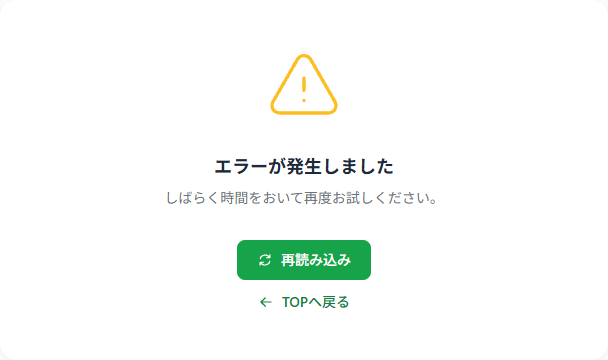
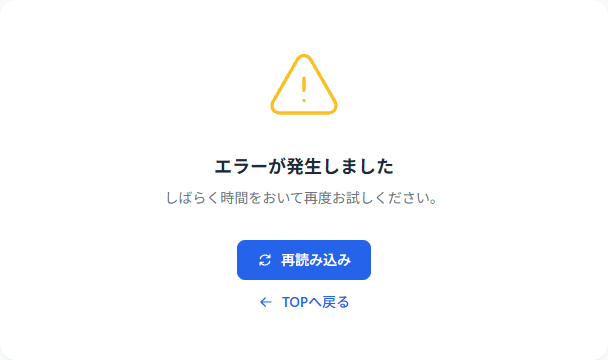
エラー画面のキャプチャが正しく読まれないバグを修正

Changed region(s): [[0.375, 0.6417, 0.625, 0.7944], [0.4062, 0.825, 0.5938, 0.8556]]

diff --git a/docs/trinity/001.設計/画面仕様書/エラーページ/error.html b/docs/trinity/001.設計/画面仕様書/エラーページ/error.html
@@ -1,0 +1,122 @@
+<!DOCTYPE html>
+<html lang="ja">
+<head>
+  <meta charset="UTF-8">
+  <meta name="viewport" content="width=device-width, initial-scale=1.0">
+  <title>エラー表示 プレビュー（Heroicons版）</title>
+  <script src="https://cdn.tailwindcss.com"></script>
+  <style>
+    body { font-family: 'Segoe UI', 'Hiragino Sans', sans-serif; background: #f9fafb; }
+    .dropdown-menu { display: none; }
+    .dropdown:hover .dropdown-menu { display: block; }
+  </style>
+</head>
+<body class="min-h-screen flex flex-col">
+
+<!-- ヘッダー -->
+<header class="bg-white shadow-sm sticky top-0 z-50">
+  <div class="max-w-7xl mx-auto px-4 py-3 flex items-center justify-between gap-4">
+    <a href="../トップページ/top.html" class="shrink-0"><img src="../header_logo.png" alt="SUNABA" class="h-8"></a>
+    <div class="flex-1 max-w-xl">
+      <div class="relative">
+        <input type="text" placeholder="商品を検索..." class="w-full border border-gray-300 rounded-lg px-4 py-2 text-sm focus:outline-none focus:ring-2 focus:ring-blue-500">
+        <span class="absolute right-3 top-2.5 text-gray-400">
+          <svg xmlns="http://www.w3.org/2000/svg" fill="none" viewBox="0 0 24 24" stroke-width="1.5" stroke="currentColor" class="w-5 h-5">
+            <path stroke-linecap="round" stroke-linejoin="round" d="m21 21-5.197-5.197m0 0A7.5 7.5 0 1 0 5.196 5.196a7.5 7.5 0 0 0 10.607 10.607Z" />
+          </svg>
+        </span>
+      </div>
+    </div>
+    <div class="flex items-center gap-4 shrink-0">
+      <a href="../カートページ/cart.html" class="relative text-gray-600 hover:text-blue-600">
+        <svg xmlns="http://www.w3.org/2000/svg" fill="none" viewBox="0 0 24 24" stroke-width="1.5" stroke="currentColor" class="w-6 h-6">
+          <path stroke-linecap="round" stroke-linejoin="round" d="M2.25 3h1.386c.51 0 .955.343 1.087.835l.383 1.437M7.5 14.25a3 3 0 0 0-3 3h15.75m-12.75-3h11.218c1.121-2.3 2.1-4.684 2.924-7.138a60.114 60.114 0 0 0-16.536-1.84M7.5 14.25 5.106 5.272M6 20.25a.75.75 0 1 1-1.5 0 .75.75 0 0 1 1.5 0Zm12.75 0a.75.75 0 1 1-1.5 0 .75.75 0 0 1 1.5 0Z" />
+        </svg>
+        <span class="absolute -top-2 -right-3 bg-red-500 text-white text-xs rounded-full w-5 h-5 flex items-center justify-center font-bold">3</span>
+      </a>
+      <div class="relative dropdown">
+        <button class="flex items-center gap-1 text-sm text-gray-700 hover:text-blue-600 font-medium">
+          <svg xmlns="http://www.w3.org/2000/svg" fill="none" viewBox="0 0 24 24" stroke-width="1.5" stroke="currentColor" class="w-5 h-5">
+            <path stroke-linecap="round" stroke-linejoin="round" d="M15.75 6a3.75 3.75 0 1 1-7.5 0 3.75 3.75 0 0 1 7.5 0ZM4.501 20.118a7.5 7.5 0 0 1 14.998 0A17.933 17.933 0 0 1 12 21.75c-2.676 0-5.216-.584-7.499-1.632Z" />
+          </svg>
+          田中太郎 <span class="text-xs">▼</span>
+        </button>
+        <div class="dropdown-menu absolute right-0 mt-2 w-44 bg-white rounded-lg shadow-lg border border-gray-100 py-1 z-50">
+          <a href="../注文履歴ページ/order_history.html" class="block px-4 py-2 text-sm text-gray-700 hover:bg-gray-50">📋 注文履歴</a>
+          <hr class="my-1">
+          <a href="../トップページ/top.html" class="block px-4 py-2 text-sm text-red-600 hover:bg-red-50">🚪 ログアウト</a>
+        </div>
+      </div>
+    </div>
+  </div>
+</header>
+
+<main class="flex-1 max-w-7xl mx-auto px-4 py-6 w-full">
+
+  <h2 class="text-sm font-semibold text-gray-400 mb-8 text-center">― エラー表示パターン（Heroicons）―</h2>
+
+  <div class="grid grid-cols-1 md:grid-cols-2 gap-8">
+
+    <!-- 404 エラー -->
+    <div>
+      <h3 class="text-xs font-semibold text-gray-400 mb-3 text-center">404 - 商品が見つからない</h3>
+      <div class="bg-white rounded-2xl shadow-sm p-10 text-center min-h-[360px] flex flex-col items-center justify-center">
+        <!-- Heroicons: magnifying-glass (outline) -->
+        <div class="w-20 h-20 mx-auto mb-6 text-gray-300">
+          <svg xmlns="http://www.w3.org/2000/svg" fill="none" viewBox="0 0 24 24" stroke-width="1" stroke="currentColor" class="w-full h-full">
+            <path stroke-linecap="round" stroke-linejoin="round" d="m21 21-5.197-5.197m0 0A7.5 7.5 0 1 0 5.196 5.196a7.5 7.5 0 0 0 10.607 10.607Z" />
+          </svg>
+        </div>
+        <h2 class="text-lg font-semibold text-gray-800 mb-2">お探しの商品は見つかりませんでした。</h2>
+        <p class="text-sm text-gray-500 mb-8">削除されたか、URLが間違っている可能性があります。</p>
+        <a href="../トップページ/top.html" class="inline-flex items-center gap-2 text-blue-600 hover:text-blue-700 font-medium text-sm transition">
+          <!-- Heroicons: arrow-left (mini) -->
+          <svg xmlns="http://www.w3.org/2000/svg" viewBox="0 0 20 20" fill="currentColor" class="w-4 h-4">
+            <path fill-rule="evenodd" d="M17 10a.75.75 0 0 1-.75.75H5.612l4.158 3.96a.75.75 0 1 1-1.04 1.08l-5.5-5.25a.75.75 0 0 1 0-1.08l5.5-5.25a.75.75 0 1 1 1.04 1.08L5.612 9.25H16.25A.75.75 0 0 1 17 10Z" clip-rule="evenodd" />
+          </svg>
+          TOPへ戻る
+        </a>
+      </div>
+    </div>
+
+    <!-- 500 サーバーエラー -->
+    <div>
+      <h3 class="text-xs font-semibold text-gray-400 mb-3 text-center">500 - サーバーエラー</h3>
+      <div class="bg-white rounded-2xl shadow-sm p-10 text-center min-h-[360px] flex flex-col items-center justify-center">
+        <!-- Heroicons: exclamation-triangle (outline) -->
+        <div class="w-20 h-20 mx-auto mb-6 text-amber-400">
+          <svg xmlns="http://www.w3.org/2000/svg" fill="none" viewBox="0 0 24 24" stroke-width="1" stroke="currentColor" class="w-full h-full">
+            <path stroke-linecap="round" stroke-linejoin="round" d="M12 9v3.75m-9.303 3.376c-.866 1.5.217 3.374 1.948 3.374h14.71c1.73 0 2.813-1.874 1.948-3.374L13.949 3.378c-.866-1.5-3.032-1.5-3.898 0L2.697 16.126ZM12 15.75h.007v.008H12v-.008Z" />
+          </svg>
+        </div>
+        <h2 class="text-lg font-semibold text-gray-800 mb-2">エラーが発生しました</h2>
+        <p class="text-sm text-gray-500 mb-8">しばらく時間をおいて再度お試しください。</p>
+        <div class="flex flex-col gap-3 items-center">
+          <button class="inline-flex items-center gap-2 bg-blue-600 text-white px-5 py-2.5 rounded-lg hover:bg-blue-700 text-sm font-medium transition">
+            <!-- Heroicons: arrow-path (mini) -->
+            <svg xmlns="http://www.w3.org/2000/svg" viewBox="0 0 20 20" fill="currentColor" class="w-4 h-4">
+              <path fill-rule="evenodd" d="M15.312 11.424a5.5 5.5 0 0 1-9.201 2.466l-.312-.311h2.433a.75.75 0 0 0 0-1.5H3.989a.75.75 0 0 0-.75.75v4.242a.75.75 0 0 0 1.5 0v-2.43l.31.31a7 7 0 0 0 11.712-3.138.75.75 0 0 0-1.449-.39Zm1.23-3.723a.75.75 0 0 0 .219-.53V2.929a.75.75 0 0 0-1.5 0V5.36l-.31-.31A7 7 0 0 0 3.239 8.188a.75.75 0 1 0 1.448.389A5.5 5.5 0 0 1 13.89 6.11l.311.31h-2.432a.75.75 0 0 0 0 1.5h4.243a.75.75 0 0 0 .53-.219Z" clip-rule="evenodd" />
+            </svg>
+            再読み込み
+          </button>
+          <a href="../トップページ/top.html" class="inline-flex items-center gap-2 text-blue-600 hover:text-blue-700 font-medium text-sm transition">
+            <!-- Heroicons: arrow-left (mini) -->
+            <svg xmlns="http://www.w3.org/2000/svg" viewBox="0 0 20 20" fill="currentColor" class="w-4 h-4">
+              <path fill-rule="evenodd" d="M17 10a.75.75 0 0 1-.75.75H5.612l4.158 3.96a.75.75 0 1 1-1.04 1.08l-5.5-5.25a.75.75 0 0 1 0-1.08l5.5-5.25a.75.75 0 1 1 1.04 1.08L5.612 9.25H16.25A.75.75 0 0 1 17 10Z" clip-rule="evenodd" />
+            </svg>
+            TOPへ戻る
+          </a>
+        </div>
+      </div>
+    </div>
+
+  </div>
+
+</main>
+
+<footer class="bg-gray-800 text-gray-400 text-center py-6 text-sm mt-16">
+  © 2025 SUNABA. All rights reserved.
+</footer>
+
+</body>
+</html>

diff --git a/docs/trinity/001.設計/画面仕様書/商品詳細ページ/error.html b/docs/trinity/001.設計/画面仕様書/商品詳細ページ/error.html
@@ -1,0 +1,67 @@
+<!DOCTYPE html>
+<html lang="ja">
+<head>
+  <meta charset="UTF-8">
+  <meta name="viewport" content="width=device-width, initial-scale=1.0">
+  <link rel="icon" type="image/svg+xml" href="../favicon.svg">
+  <title>エラー | SUNABA</title>
+  <script src="https://cdn.tailwindcss.com"></script>
+  <style>
+    body { font-family: 'Segoe UI', 'Hiragino Sans', sans-serif; background: #f9fafb; }
+  </style>
+</head>
+<body>
+
+<!-- ヘッダー -->
+<header class="bg-white shadow-sm sticky top-0 z-50">
+  <div class="max-w-7xl mx-auto px-4 py-3 flex items-center justify-between gap-4">
+    <a href="../トップページ/top.html" class="shrink-0"><img src="../header_logo.png" alt="SUNABA" class="h-8"></a>
+    <div class="flex-1 max-w-xl">
+      <div class="relative">
+        <input type="text" placeholder="商品を検索..." class="w-full border border-gray-300 rounded-lg px-4 py-2 text-sm focus:outline-none focus:ring-2 focus:ring-blue-500">
+        <span class="absolute right-3 top-2.5 text-gray-400">
+          <svg xmlns="http://www.w3.org/2000/svg" fill="none" viewBox="0 0 24 24" stroke-width="1.5" stroke="currentColor" class="w-5 h-5">
+            <path stroke-linecap="round" stroke-linejoin="round" d="m21 21-5.197-5.197m0 0A7.5 7.5 0 1 0 5.196 5.196a7.5 7.5 0 0 0 10.607 10.607Z" />
+          </svg>
+        </span>
+      </div>
+    </div>
+    <div class="flex items-center gap-4 shrink-0">
+      <a href="../カートページ/cart.html" class="relative text-gray-600 hover:text-blue-600">
+        <svg xmlns="http://www.w3.org/2000/svg" fill="none" viewBox="0 0 24 24" stroke-width="1.5" stroke="currentColor" class="w-6 h-6">
+          <path stroke-linecap="round" stroke-linejoin="round" d="M2.25 3h1.386c.51 0 .955.343 1.087.835l.383 1.437M7.5 14.25a3 3 0 0 0-3 3h15.75m-12.75-3h11.218c1.121-2.3 2.1-4.684 2.924-7.138a60.114 60.114 0 0 0-16.536-1.84M7.5 14.25 5.106 5.272M6 20.25a.75.75 0 1 1-1.5 0 .75.75 0 0 1 1.5 0Zm12.75 0a.75.75 0 1 1-1.5 0 .75.75 0 0 1 1.5 0Z" />
+        </svg>
+      </a>
+    </div>
+  </div>
+</header>
+
+<main class="max-w-3xl mx-auto px-4 py-16">
+
+  <!-- 404エラー -->
+  <div class="bg-white rounded-2xl shadow-sm p-12 text-center mb-12">
+    <div class="text-6xl mb-4">🔍</div>
+    <h2 class="text-xl font-bold text-gray-900 mb-2">お探しの商品は見つかりませんでした。</h2>
+    <p class="text-sm text-gray-500 mb-6">削除されたか、URLが間違っている可能性があります。</p>
+    <a href="../トップページ/top.html" class="inline-block bg-blue-600 text-white px-6 py-2 rounded-lg hover:bg-blue-700 transition">TOPへ戻る</a>
+  </div>
+
+  <!-- 500エラー -->
+  <div class="bg-white rounded-2xl shadow-sm p-12 text-center">
+    <div class="text-6xl mb-4">⚠</div>
+    <h2 class="text-xl font-bold text-gray-900 mb-2">エラーが発生しました</h2>
+    <p class="text-sm text-gray-500 mb-6">しばらく時間をおいて再度お試しください。</p>
+    <div class="flex justify-center gap-4">
+      <button class="bg-blue-600 text-white px-6 py-2 rounded-lg hover:bg-blue-700 transition">再読み込み</button>
+      <a href="../トップページ/top.html" class="border border-gray-300 text-gray-700 px-6 py-2 rounded-lg hover:bg-gray-50 transition">TOPへ戻る</a>
+    </div>
+  </div>
+
+</main>
+
+<footer class="bg-gray-800 text-gray-400 text-center py-6 text-sm">
+  © 2025 SUNABA. All rights reserved.
+</footer>
+
+</body>
+</html>

diff --git a/docs/trinity/001.設計/画面仕様書/商品詳細ページ/capture.js b/docs/trinity/001.設計/画面仕様書/商品詳細ページ/capture.js
@@ -32,7 +32,7 @@ async function capture() {
   }
 
   // エラー画面
-  const errorHtml = path.join(__dirname, 'product_detail.html')
+  const errorHtml = path.join(__dirname, '../エラーページ/error.html')
   await page.goto(`file:///${path.resolve(errorHtml).replace(/\\/g, '/')}`, { waitUntil: 'networkidle0' })
 
   await page.screenshot({ path: path.join(__dirname, 'error_design.png'), fullPage: true })
